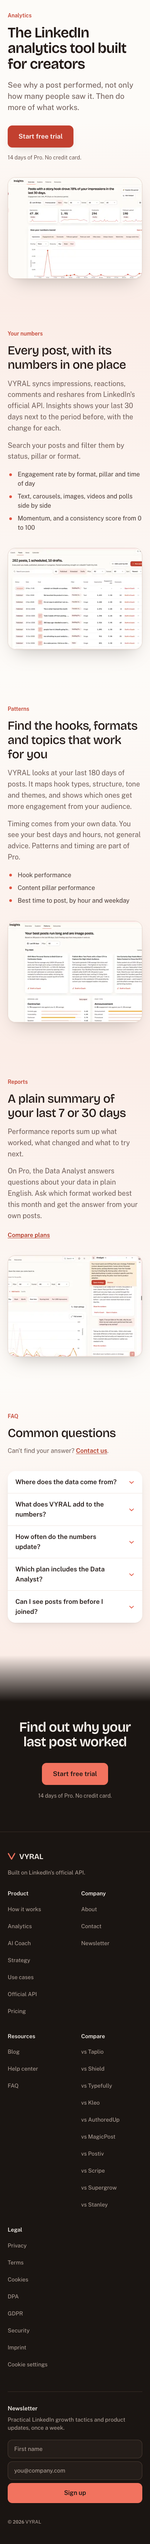
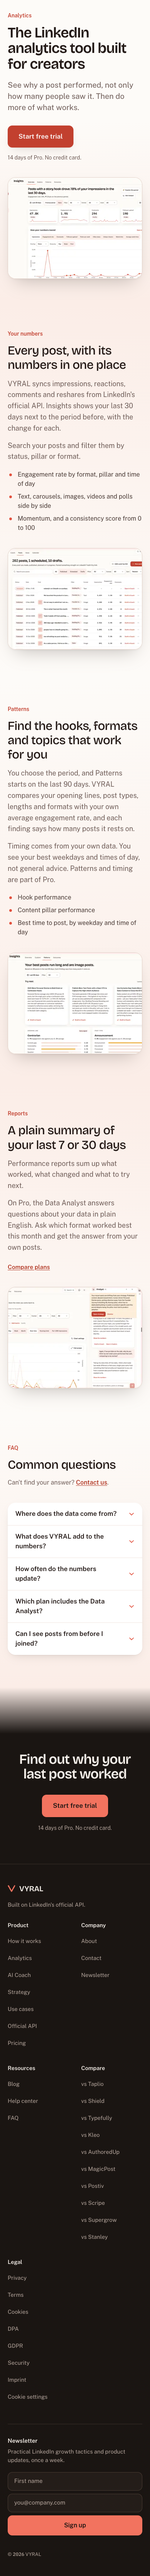
Settle screen copy against the app: Patterns window, seven profile sections, Blueprint fields

diff --git a/src/app/(site)/product/profile-review/page.tsx b/src/app/(site)/product/profile-review/page.tsx
@@ -1,4 +1,3 @@
-import Image from "next/image";
 import Link from "next/link";
 import AppScreen from "@/components/site/AppScreen";
 import Button from "@/components/site/Button";
@@ -21,27 +20,31 @@ export const metadata = pageMetadata({
 
 const SECTIONS = [
   {
-    title: "Strategy Alignment",
-    text: "See how well your profile positions you for your content goals, not just your job title.",
+    title: "Profile photo",
+    text: "Is your photo professional and approachable, and does it fit the rest of your profile?",
   },
   {
-    title: "About Section",
-    text: "Is your About section built for conversion or just a copy of your CV? You'll know.",
-  },
-  {
-    title: "Banner & Photo",
-    text: "Visual first impressions scored and compared against what works for LinkedIn creators.",
+    title: "Banner",
+    text: "Does your banner say what you do and who you help?",
   },
   {
     title: "Headline",
     text: "Your headline is the most important line on your profile. Get rewrites that actually convert.",
   },
   {
-    title: "Featured Section",
+    title: "About",
+    text: "Is your About section built for conversion or just a copy of your CV? You'll know.",
+  },
+  {
+    title: "Featured",
     text: "The most underused section on LinkedIn. Find out if you're leaving authority on the table.",
   },
   {
-    title: "Overall Consistency",
+    title: "Experience",
+    text: "Do your roles show results for your audience, not only your duties?",
+  },
+  {
+    title: "Consistency",
     text: "Does your profile tell a coherent story? VYRAL checks alignment across every section.",
   },
 ];
@@ -60,7 +63,7 @@ const STEPS = [
   {
     num: "03",
     title: "Fix with the Coach",
-    text: "Take your priority fixes straight into the AI Coach to rewrite your headline, About section, and more, in your voice.",
+    text: "Every section that scores under 7 of 10 has a Fix with Coach button. It opens the Coach with that fix, to rewrite your headline, About section and more.",
   },
 ];
 
@@ -81,24 +84,11 @@ export default function ProfileReviewPage() {
         <span className="text-[14px] text-muted">{TRIAL_NOTE}</span>
       </PageHero>
 
-      <Section variant="tint" className="py-[48px]">
-        <div className="mx-auto max-w-[720px]">
-          <Image
-            src="/profileviewer.png"
-            alt="VYRAL Profile Review: AI LinkedIn profile audit"
-            width={1238}
-            height={1778}
-            sizes="(min-width: 860px) 720px, 100vw"
-            className="block h-auto w-full rounded-lg shadow-2"
-          />
-        </div>
-      </Section>
-
-      <Section variant="light" labelledBy="reviewed-title" className="py-[72px]">
+      <Section variant="tint" labelledBy="reviewed-title" className="py-[72px]">
         <SectionLabel>What gets reviewed</SectionLabel>
         <SectionHeading id="reviewed-title">Every section of your profile, scored and explained</SectionHeading>
         <p className="mt-4 mb-0 max-w-[620px] text-body-l text-muted">
-          Not a generic checklist. You get a score out of 100, a score out of 10 for each section and the three fixes to make first. Every score is contextualised against your content strategy and goals.
+          Not a generic checklist. You get a score out of 100, a score out of 10 for each of seven sections and the three fixes to make first. A separate Fits your strategy score compares your profile with your Blueprint.
         </p>
         <div className="mt-10 grid gap-5 desk:grid-cols-3 desk:gap-y-0">
           {SECTIONS.map((s) => (
@@ -110,7 +100,7 @@ export default function ProfileReviewPage() {
         </div>
       </Section>
 
-      <Section variant="tint" labelledBy="steps-title" className="py-[72px]">
+      <Section variant="light" labelledBy="steps-title" className="py-[72px]">
         <SectionLabel>How it works</SectionLabel>
         <SectionHeading id="steps-title">Three steps to a stronger profile</SectionHeading>
         <ol className="m-0 mt-10 grid list-none gap-5 p-0 desk:grid-cols-3 desk:gap-y-0">
@@ -129,7 +119,7 @@ export default function ProfileReviewPage() {
         </p>
       </Section>
 
-      <ClosingBand title="Find out what your profile is really saying">
+      <ClosingBand from="soft" title="Find out what your profile is really saying">
         <p className="m-0">{TRIAL_NOTE}</p>
       </ClosingBand>
     </>

diff --git a/src/app/(site)/linkedin-analytics/page.tsx b/src/app/(site)/linkedin-analytics/page.tsx
@@ -33,10 +33,10 @@ const content: FeaturePageContent = {
       label: "Patterns",
       title: "Find the hooks, formats and topics that work for you",
       body: [
-        "VYRAL looks at your last 180 days of posts. It maps hook types, structure, tone and themes, and shows which ones get more engagement from your audience.",
-        `Timing comes from your own data. You see your best days and hours, not general advice. Patterns and timing are part of ${pro.name}.`,
+        "You choose the period, and Patterns starts on the last 90 days. VYRAL compares your opening lines, post types, lengths and formats with your own average engagement rate, and each finding says how many posts it rests on.",
+        `Timing comes from your own data. You see your best weekdays and times of day, not general advice. Patterns and timing are part of ${pro.name}.`,
       ],
-      points: ["Hook performance", "Content pillar performance", "Best time to post, by hour and weekday"],
+      points: ["Hook performance", "Content pillar performance", "Best time to post, by weekday and time of day"],
       screen: "insights-patterns",
     },
     {

diff --git a/src/app/(site)/linkedin-content-strategy/page.tsx b/src/app/(site)/linkedin-content-strategy/page.tsx
@@ -42,11 +42,11 @@ const content: FeaturePageContent = {
         "You do not start from scratch. VYRAL suggests a Blueprint from the posts you import. Review it, change it, or skip it and set it up later.",
       ],
       points: [
-        "Positioning and audience",
-        "Offers, and the outcomes your content should lead to",
-        "Content pillars and recurring angles",
-        "Stories and proof the Coach can use",
-        "Your voice, and what you would never say",
+        "Positioning, goals and audience",
+        "What you sell, how people buy and your revenue goal",
+        "Content pillars, each with a description",
+        "Your voice: tone words, what to do, what you would never say, and whether the Coach may use personal stories",
+        "A posting plan: posts per week, formats and calls to action",
       ],
     },
     {

diff --git a/src/app/(site)/how-vyral-works/page.tsx b/src/app/(site)/how-vyral-works/page.tsx
@@ -67,6 +67,7 @@ const content: FeaturePageContent = {
       title: "Your numbers sync on their own",
       body: [
         "Impressions, reactions and comments sync every 3 hours for a post's first 14 days, then daily until day 30, then weekly. VYRAL maps hook types, tone, timing and themes, then shows which ones work for you.",
+        "In Explore, chart any metric over any period and compare it with the previous period.",
         "When you sign up, VYRAL imports the posts from your last 30 days that have analytics. To add older posts, upload the data export LinkedIn gives you.",
       ],
       link: { label: "See the analytics", href: "/linkedin-analytics" },

diff --git a/src/app/(site)/page.tsx b/src/app/(site)/page.tsx
@@ -102,7 +102,7 @@ const INSIDE = [
   {
     step: "02",
     title: "See which posts earned it",
-    body: "Impressions, reactions and comments for each of your posts. On Pro, patterns show which hook types, timing and themes beat your own average.",
+    body: "Impressions, engagement rate, comments and followers for the period, and the numbers for each post. On Pro, patterns show which hook types, timing and themes beat your own average.",
     screen: "insights-overview" as ScreenName,
     label: "Insights",
     link: { label: "See the analytics", href: "/linkedin-analytics" },
